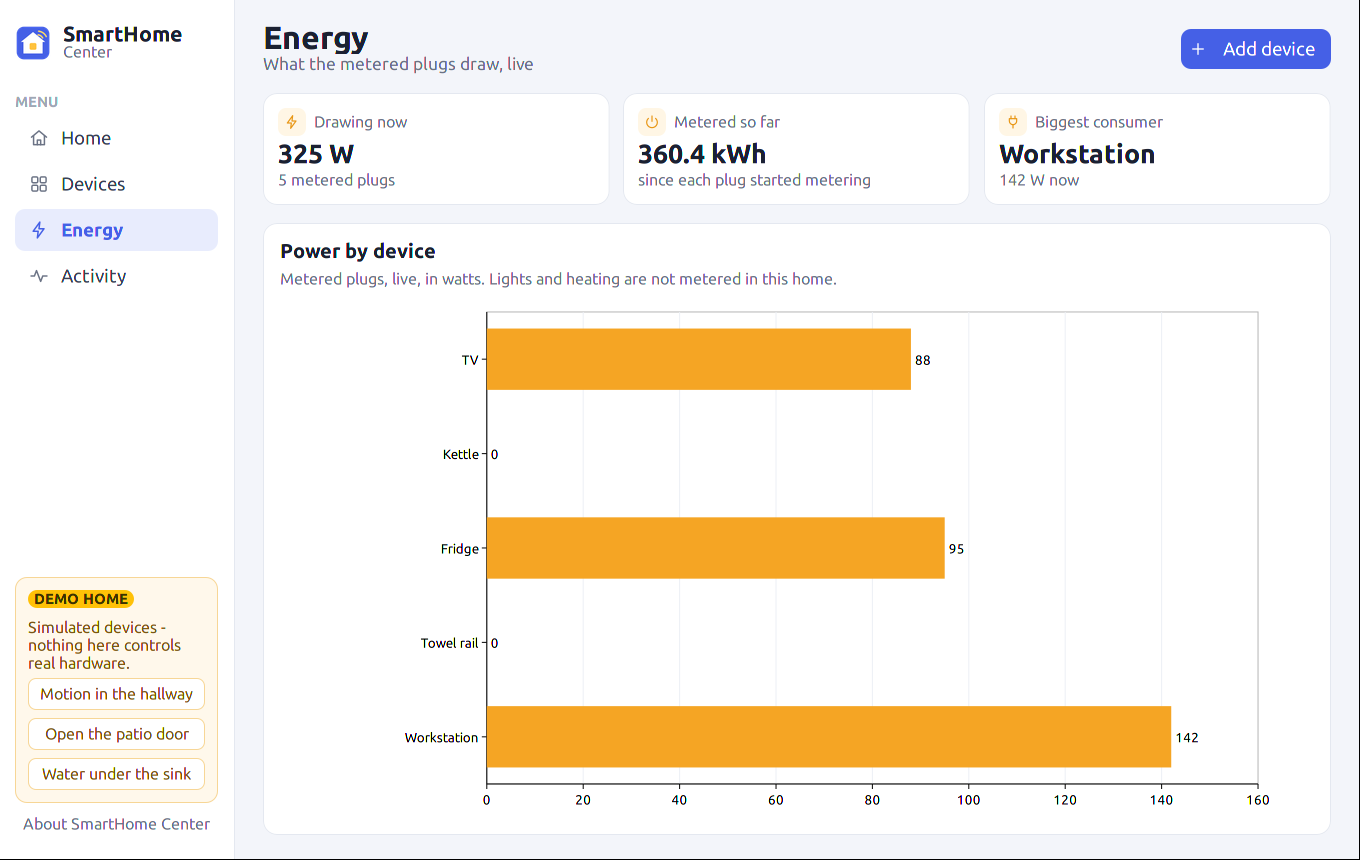
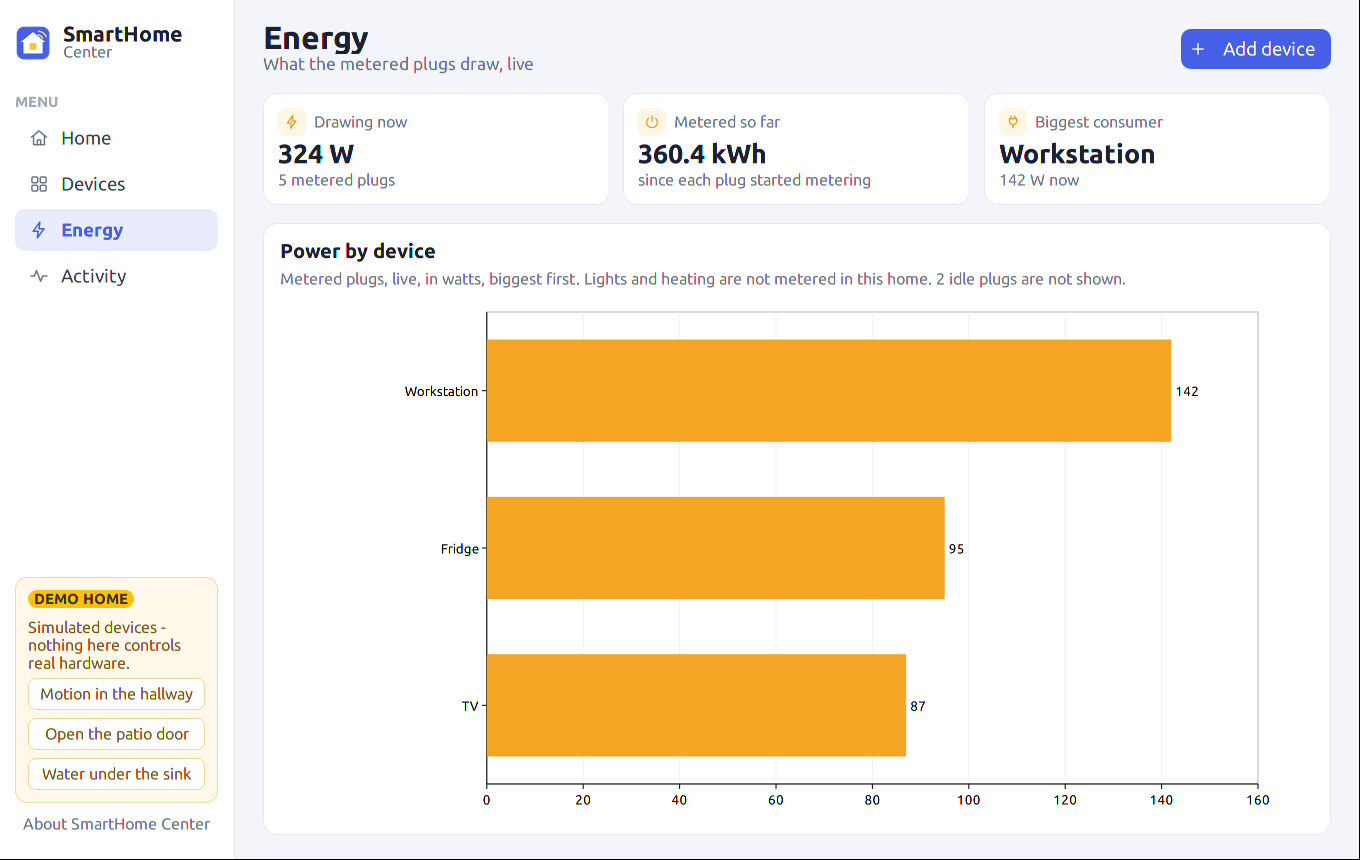
SmartHome Center: Energy bars biggest first, idle plugs left out
The chart lists only the plugs drawing power, sorted by watts with the
biggest at the top; the note under the card title counts the idle plugs
it leaves out.

Claude-Session: https://claude.ai/code/session_012sr5EWHSpua7jatexk37H2

diff --git a/Apps/SmartHomeCenter/ui/SmartHomeCenterWindow.cpp b/Apps/SmartHomeCenter/ui/SmartHomeCenterWindow.cpp
@@ -1276,6 +1276,11 @@ void SmartHomeCenterWindow::UpdateDevicesTable() {
 
 // ===== ENERGY =====
 
+namespace {
+constexpr const char* kEnergyNote =
+    "Metered plugs, live, in watts, biggest first. Lights and heating are not metered in this home.";
+}
+
 std::shared_ptr<UltraCanvasContainer> SmartHomeCenterWindow::BuildEnergyPage() {
     auto page = Column("shcEnergyPage", 18);
     auto stats = Row("shcEnergyStats", 14, CSSLayout::AlignItems::Stretch);
@@ -1291,10 +1296,12 @@ std::shared_ptr<UltraCanvasContainer> SmartHomeCenterWindow::BuildEnergyPage() {
     Card(card, 16);
     Grow(card);
     card->AddChild(Text("shcEnergyCardTitle", "Power by device", 15, kInk, true, 22));
-    card->AddChild(Text("shcEnergyCardNote", "Metered plugs, live, in watts. Lights and heating are not metered in this home.", 12, kMuted, false, 18));
+    energyNoteText_ = Text("shcEnergyCardNote", kEnergyNote, 12, kMuted, false, 18);
+    card->AddChild(energyNoteText_);
 
-    // The framework's bar chart, run sideways: one row per plug, its name
-    // on the left, watts along the bottom at whole steps.
+    // The framework's bar chart, run sideways: one row per plug drawing
+    // power, biggest at the top, its name on the left, watts along the
+    // bottom at whole steps.
     energyData_ = std::make_shared<ChartDataVector>();
     energyChart_ = CreateBarChartElement("shcEnergyChart", 0, 0, 700, 360);
     energyChart_->SetOrientation(BarChartOrientation::Horizontal);
@@ -1322,7 +1329,10 @@ void SmartHomeCenterWindow::UpdateEnergy() {
     float now = 0.0f, total = 0.0f, topWatts = -1.0f;
     std::string topName, key;
     size_t metered = 0;
-    std::vector<ChartDataPoint> points;
+    // The plugs drawing something, biggest first; an idle plug (under half
+    // a watt) has no bar.
+    struct Bar { double watts; float energy; const SmartHomeDeviceInfo* info; };
+    std::vector<Bar> bars;
     for (const DeviceView& v : views_) {
         if (!v.metered) continue;
         ++metered;
@@ -1331,14 +1341,23 @@ void SmartHomeCenterWindow::UpdateEnergy() {
         if (v.power > topWatts) { topWatts = v.power; topName = v.info.Name; }
         // Whole watts: the chart is redrawn only when a bar would move.
         const double watts = std::round(v.power);
-        key += v.info.DeviceId + "=" + std::to_string(static_cast<long>(watts)) + ";";
-        points.emplace_back(static_cast<double>(points.size()), watts, 0.0, v.info.Name, v.energy);
+        if (watts >= 1.0) bars.push_back({watts, v.energy, &v.info});
+    }
+    std::stable_sort(bars.begin(), bars.end(), [](const Bar& a, const Bar& b) { return a.watts > b.watts; });
+    std::vector<ChartDataPoint> points;
+    for (const Bar& b : bars) {
+        key += b.info->DeviceId + "=" + std::to_string(static_cast<long>(b.watts)) + ";";
+        points.emplace_back(static_cast<double>(points.size()), b.watts, 0.0, b.info->Name, b.energy);
     }
     if (key != energyChartKey_) {
         energyChartKey_ = key;
         energyData_->LoadFromArray(points);
         energyChart_->SetDataSource(energyData_);
     }
+    const size_t idle = metered - bars.size();
+    energyNoteText_->SetText(idle == 0 ? std::string(kEnergyNote)
+                             : std::string(kEnergyNote) + " " + std::to_string(idle) +
+                                   (idle == 1 ? " idle plug is" : " idle plugs are") + " not shown.");
     energyNowStat_.value->SetText(FormatPower(now));
     energyNowStat_.detail->SetText(std::to_string(metered) + " metered plugs");
     energyTotalStat_.value->SetText(FormatEnergy(total));

diff --git a/Apps/SmartHomeCenter/ui/SmartHomeCenterWindow.h b/Apps/SmartHomeCenter/ui/SmartHomeCenterWindow.h
@@ -188,6 +188,7 @@ private:
     std::shared_ptr<UltraCanvas::UltraCanvasBarChartElement> energyChart_;
     std::shared_ptr<UltraCanvas::ChartDataVector> energyData_;
     std::string energyChartKey_;                      // what the chart shows now
+    std::shared_ptr<UltraCanvas::UltraCanvasLabel> energyNoteText_;   // says how many idle plugs are left out
     std::shared_ptr<ActivityTableModel> activityModel_;
     std::shared_ptr<UltraCanvas::UltraCanvasListView> activityList_;
     std::deque<ActivityEntry> activity_;          // newest first

diff --git a/Apps/SmartHomeCenter/README.md b/Apps/SmartHomeCenter/README.md
@@ -23,7 +23,7 @@ Changelog and version: [`Docs/SmartHomeCenter/CHANGELOG.md`](../../Docs/SmartHom
 |---|---|
 | **Home** | Inside temperature, lights on, locks, power now; the four scenes; every room with a tile per device (a switch on the tile for whatever switches, the reading for whatever measures); the selected device's controls and details on the right. A leak or smoke alarm puts a red banner on top. |
 | **Devices** | The whole home as a table: room, type, state, battery, power, protocol, last seen. Double-click a row to open the device on Home. |
-| **Energy** | The metered plugs, live: what each draws against the biggest draw, and what each has metered so far. |
+| **Energy** | The metered plugs, live: a bar per plug drawing power, biggest first (idle plugs are left out and counted), and what each has metered so far. |
 | **Activity** | What happened since the window opened, newest first: switches, locks, sensors, scenes, pairing. |
 
 Tiles take the colour of what the device is doing: amber for light and

diff --git a/Docs/SmartHomeCenter/CHANGELOG.md b/Docs/SmartHomeCenter/CHANGELOG.md
@@ -11,7 +11,8 @@
   home as a table, *Energy* the metered plugs live, *Activity* what
   happened and when. A leak or smoke alarm puts a red banner over Home.
   The Energy page is the framework's bar chart run sideways, one row per
-  plug, on an axis marked at whole watts.
+  plug drawing power, biggest at the top, on an axis marked at whole watts;
+  idle plugs are left out and counted under the title.
 - **The demo home.** With no radio enabled the window opens the simulated
   home of the SmartHome module (30 devices in 8 rooms), says so in a panel
   under the menu and in every device's details, and offers three events to
